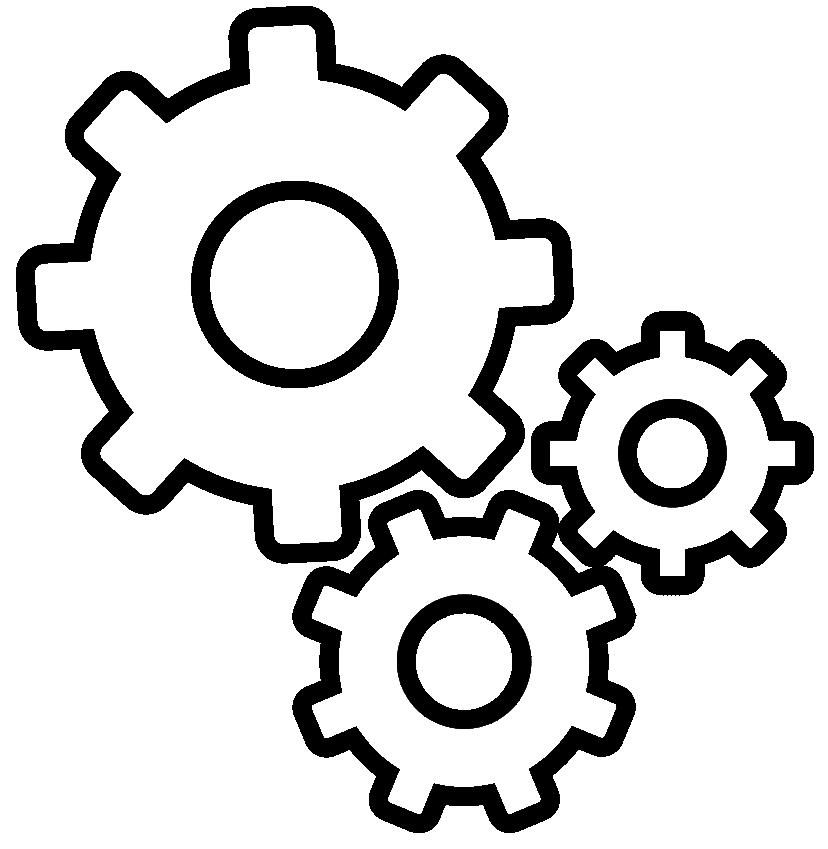
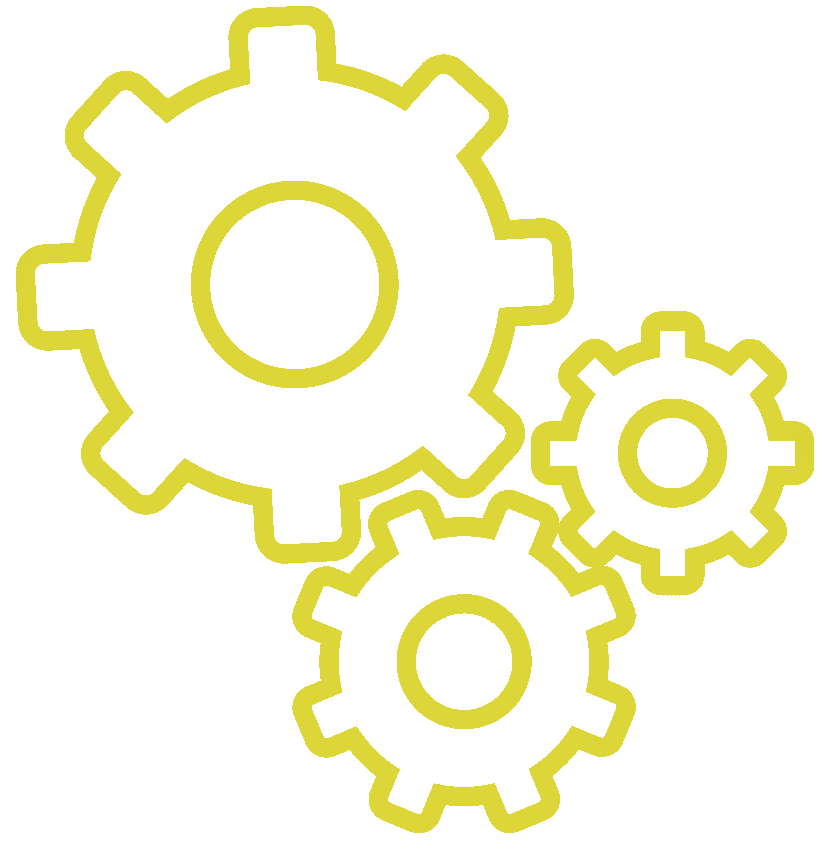
Melhorias no design: TEMA PRETO, destaque em amarelo, letras em branco. :smile:

Changed region(s): [[0.0, 0.0, 0.9964, 0.98], [0.2114, 0.2144, 0.4831, 0.4594], [0.4529, 0.6737, 0.6643, 0.8575]]

diff --git a/css/header.css b/css/header.css
@@ -27,7 +27,7 @@
     background-color: #34D48E;
 }
 
-@media only screen and (max-width: 576px) {
+@media only screen and (max-width: 720px) {
     .navbar-brand{
         margin: 0px auto;
     }

diff --git a/css/presentation.css b/css/presentation.css
@@ -16,9 +16,10 @@
 }
 
 .marketing-ul  {
-    padding: 10px;
+    padding: 25px;
+    color: #ffffff;
 }
 
 .marketing {
-    background-color: #f0d8bb;
+    background-color: #000000;
 }
